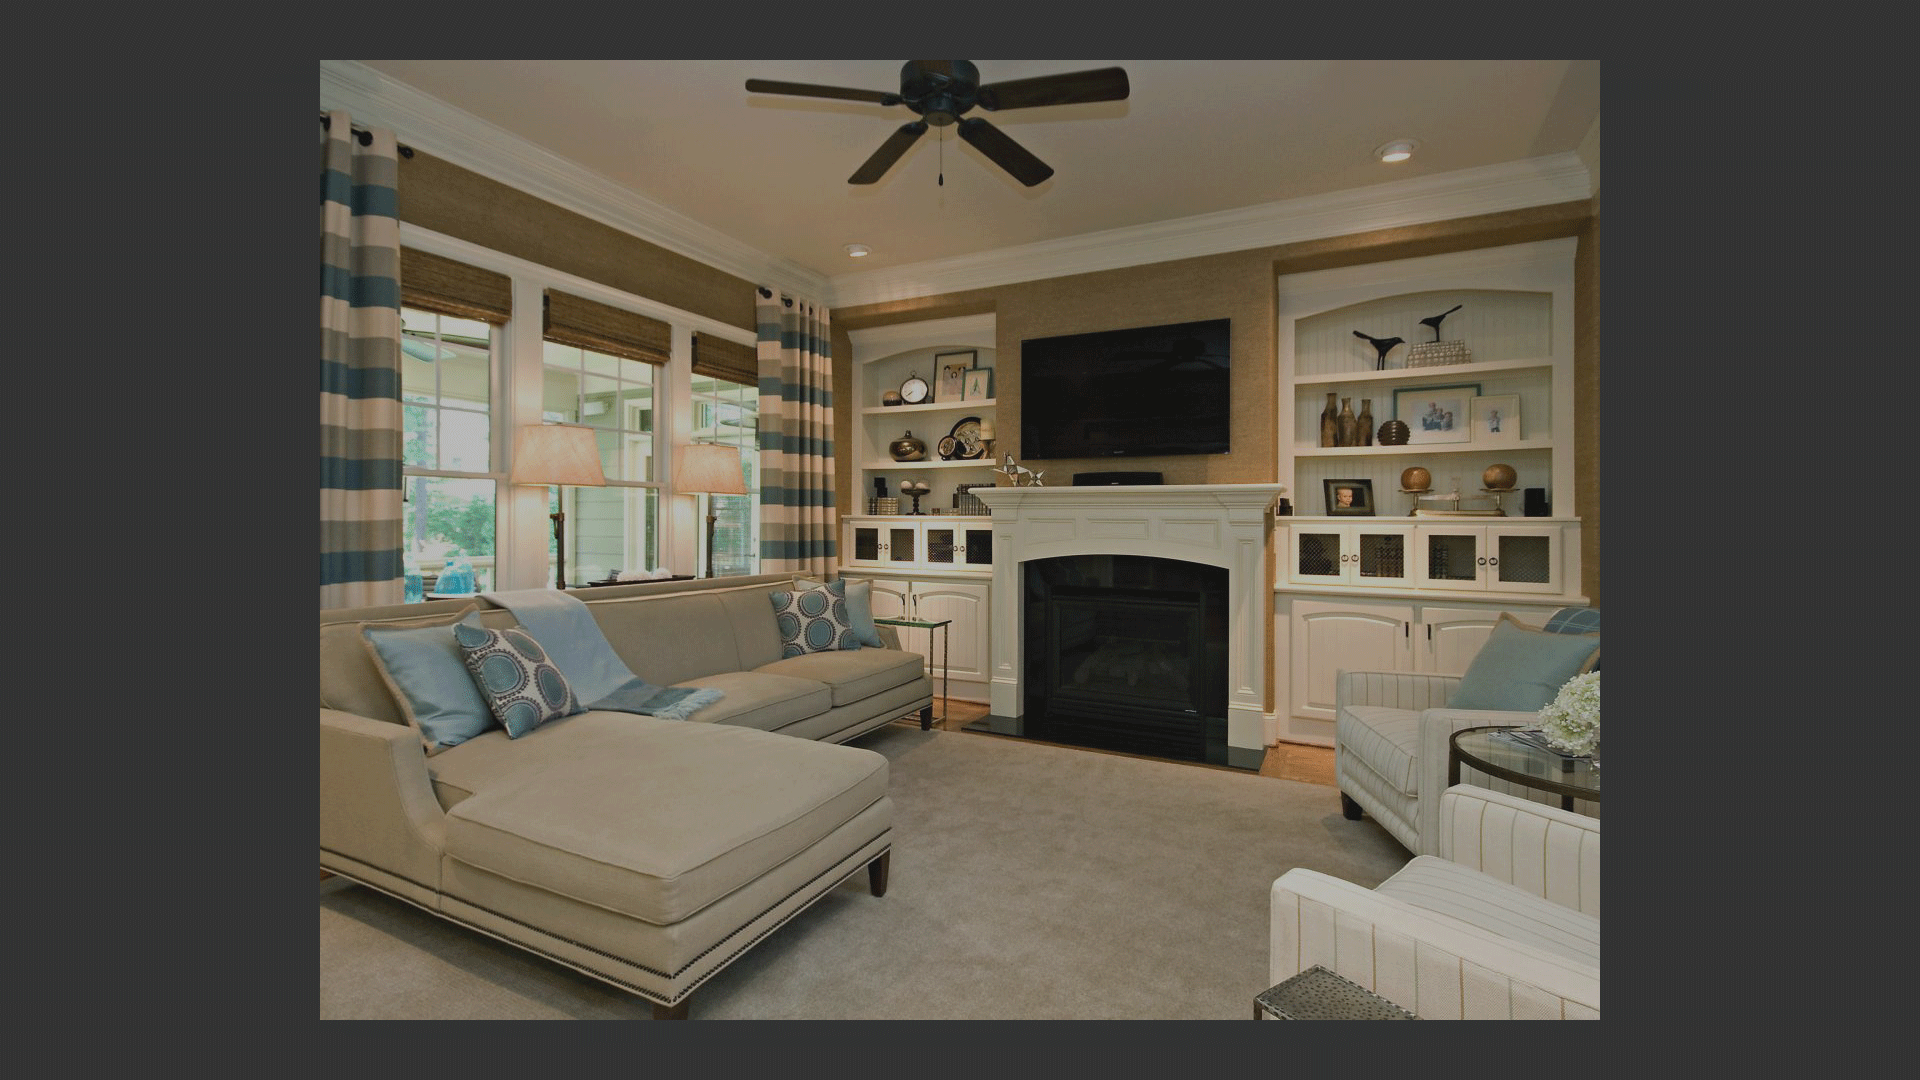
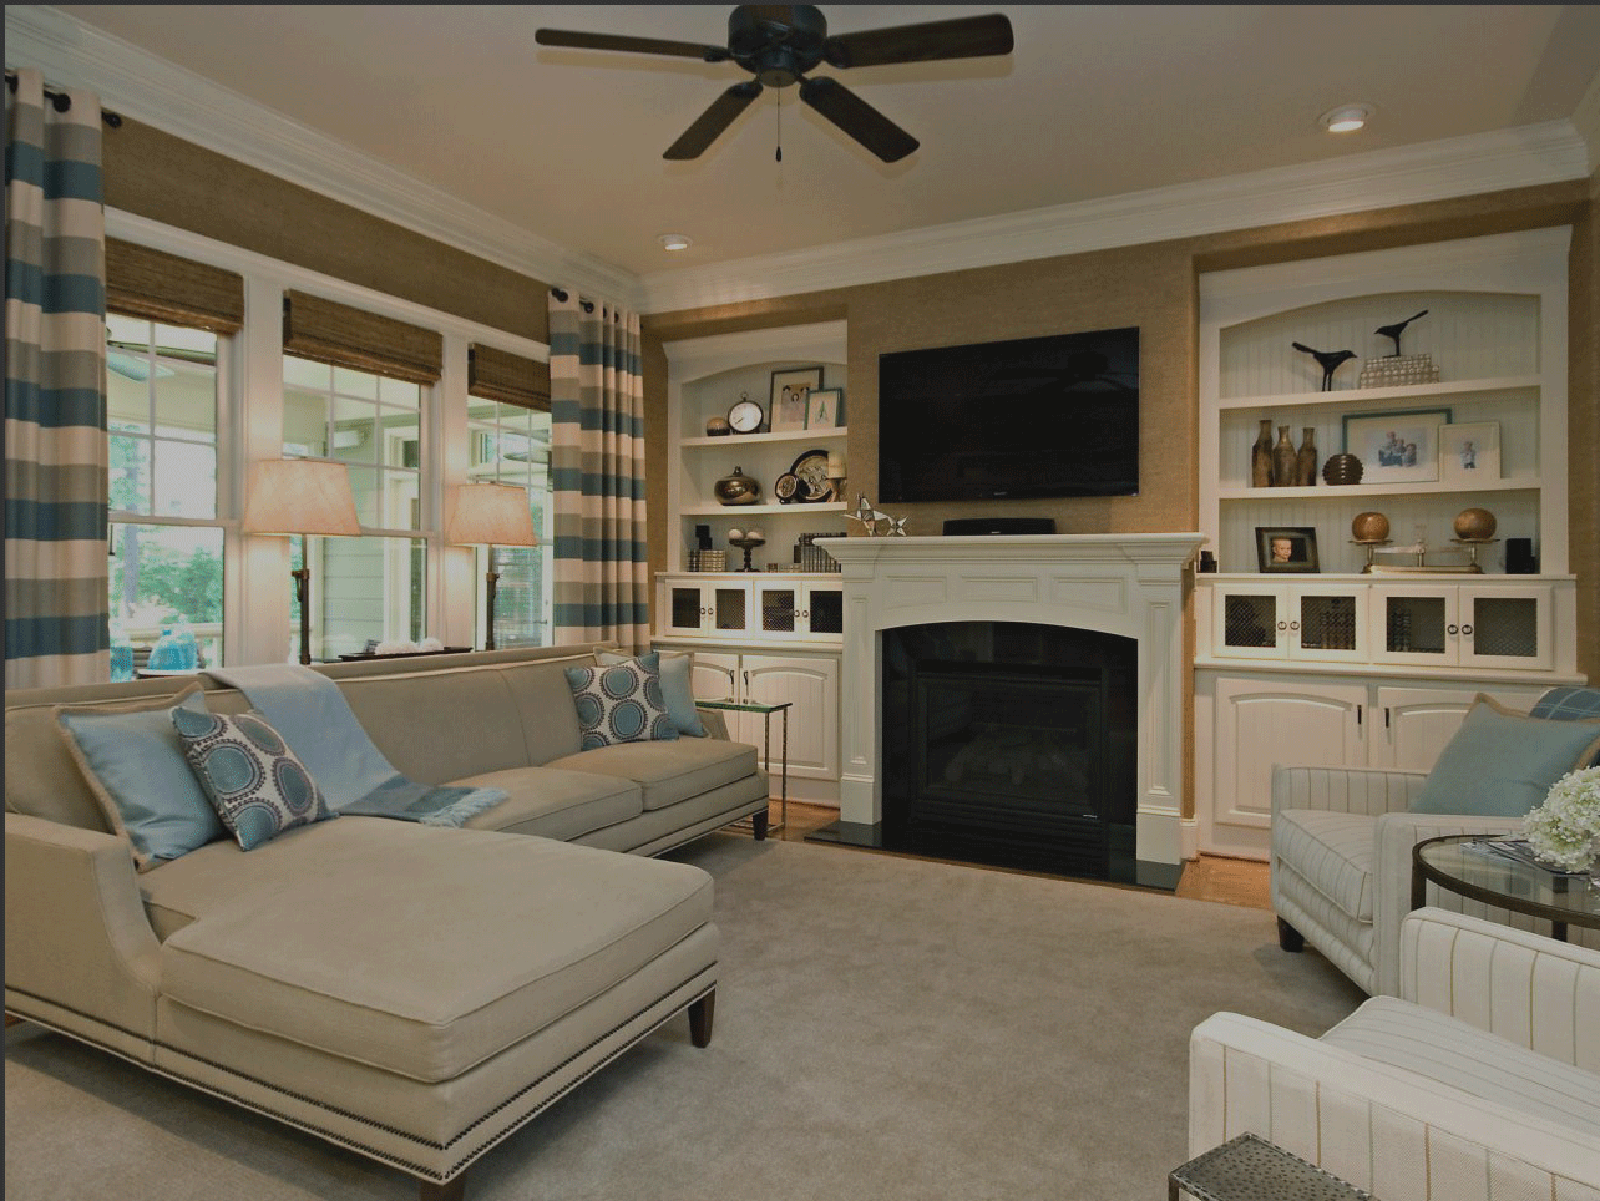
fixed touch using touchpunch from furf and style updates

diff --git a/skin-housepanel/housepanel.css b/skin-housepanel/housepanel.css
@@ -77,21 +77,15 @@ form.houseauth {
     padding-left: 0px;
     padding-right: 1px;
     text-align: left;
-	
 }
 
 #options-tab {
     padding-top: 10px;
 }
 
-/* specific tabs can be fully customized by ID as shown here */
-/* this would put the content on the right when uncommented */
-
-
 #options-tab {
     background-color: #ffffff;
     color: #000000;
-	
 }
 
 /* all panels look like this */
@@ -100,8 +94,10 @@ div.panel {
     border: 0px solid #3333cc;
     padding: 2px;
     width: 100%;
-	margin: auto;
+    margin: auto;
     position:relative;
+    background-repeat: no-repeat;
+    background-position: left;
     box-shadow: 0px 0px 41px rgba(0, 0, 0, 0.50);
     -moz-box-shadow: 0px 0px 41px rgba(0, 0, 0, 0.50);
     -webkit-box-shadow: 0px 0px 41px rgba(0, 0, 0, 0.50);
@@ -109,64 +105,41 @@ div.panel {
 }
 
 div.panel-family {
-	background-image: url('family.png');
-	background-attachment: fixed;	
-	background-repeat: no-repeat;
-    background-position: center;
+    background-image: url('family.png');
 }
 
 div.panel-kitchen, div.panel-dinette {
-	background-image: url('kitchenroom.png');
-	background-attachment: fixed;	
-	background-repeat: no-repeat;
+    background-image: url('kitchenroom.png');
 }
 
 div.panel-formal, div.panel-living {
-	background-image: url('formal.png');
-	background-attachment: fixed;	
-	background-repeat: no-repeat;
-    background-position: center;
+    background-image: url('formal.png');
 }
-
+/*
 a:hover {
     background-position: 0 -32px;
-}
+}*/
 
 
 div.panel-outside, div.panel-garage {
     background-image: url('outside.png');
-    background-attachment: fixed;	
-    background-repeat: no-repeat;
-    background-position: center;
 }
 
 div.panel-office {
     background-image: url('office.png');
-    background-attachment: fixed;	
-    background-repeat: no-repeat;
 }
 
 div.panel-bedrooms {
     background-image: url('bedroom.png');
-    background-attachment: fixed;	
-    background-repeat: no-repeat;
-    background-position: center;
 }
-
 
 /* make specific panels look however you wish */
 div.panel-music, div.panel-theater {
-  background-image: url('music.png');
-  background-attachment: fixed;	
-  background-repeat: no-repeat;
-  background-position: center;
+    background-image: url('music.png');
 }
 
 div.panel-thermostats {
   background-image: url('thermostat.png');
-  background-attachment: fixed;	
-  background-repeat: no-repeat;
-  background-position: center;
 }
 
 /* locate and style the blocks of data for history info */
@@ -352,7 +325,7 @@ div.thing {
     border-right: 0px solid #cccccc;
     border-bottom: 0px solid #ffffff; 
     border-left: 0px solid #ffffff;
-    background-color: rgba(0, 51, 204, 0.4);
+    background-color: rgba(0, 51, 204, 0.6);
     box-shadow: 2px 2px 7px black;
     color: #eeeeee;
     cursor: default;
@@ -479,7 +452,7 @@ div.switch, div.switchlevel, div.momentary, div.motion, div.lock, div.contact, d
     height: 112px;
 }
 
-div.switch, div.switchlevel, div.momentary, div.lock {
+div.switch, div.switchlevel, div.momentary, div.lock, div.mode.mode {
     cursor: pointer;
 }
 
@@ -585,7 +558,7 @@ div.switch.on, div.switchlevel.on{
 
 div.switch.off, div.switchlevel.off{
     background-image: url('bulboff.png');
-    background-color: rgba(0, 51, 204, 0.6);
+    /* background-color: rgba(0, 51, 204, 0.6); */
 }
 
 div.momentary.off, div.momentary.on{
@@ -836,11 +809,9 @@ div.b1x1, div.b1x2, div.b2x1, div.b2x2 {
     padding-left: 0px;
 }
 
-div.b2x1, div.b2x2 {
-    height: 252px;
-}
-
-div.b1x2, div.b2x2 {
+/* add special sizes for the b1x2, b2x1, and b2x2 tiles  */
+/* otherwise they are the same as the b1x1 blank tile */
+div.b1x2, div.b2x1 {
     width: 244px;
 }
 
@@ -869,6 +840,23 @@ div.clock.time {
 div.clock.tzone{
     display:none;
 }
-div.thingname.blank, div.thingname.clock {
+div.thingname.blank, div.thingname.clock, div.thingname.mode {
+    display:none;
+}
+
+div.thing.mode-thing {
+    width: 120px;
+    height: 160px;
+    cursor: move;
+}
+div.mode.themode {
+    font-size: 24pt;
+    margin-top: 10px;
+}
+div.mode.name {
+    font-size: 12pt;
+    margin-top: 50px;
+}
+div.mode.zipcode {
     display:none;
 }

diff --git a/housepanel.js b/housepanel.js
@@ -238,11 +238,11 @@ function strObject(o) {
   var out = '';
   for (var p in o) {
     out += p + ': ';
-    if (typeof o[p] === "object") {
-        out += strObject(o[p]);
-    } else {
+//    if (typeof o[p] === "object") {
+//        out += strObject(o[p]);
+//    } else {
         out += o[p] + '\n';
-    }
+//    }
   }
   return out;
 }
@@ -301,18 +301,21 @@ function refreshTile(aid, bid, thetype) {
 function setupTimers() {
     
     // force refresh when we click on a new page tab
-//    $("li.ui-tab > a").click(function() {
-//        var panel = $(this).text().toLowerCase();
-////        alert("panel = "+panel);
-//        $("#panel-"+panel+" div.thing").each(function() {
-//            var aid = $(this).attr("id").substring(2);
-//            var bid = $(this).attr("bid");
-//            var thetype = $(this).attr("type");
-//            if (thetype!=="options") {
-//                    refreshTile(aid, bid, thetype);
-//            }
-//        });
-//    });
+    $("li.ui-tab > a").click(function() {
+        var panel = $(this).text().toLowerCase();
+//        alert("panel = "+panel);
+        $("#panel-"+panel+" div.thing").each(function() {
+            var aid = $(this).attr("id").substring(2);
+            var bid = $(this).attr("bid");
+            var thetype = $(this).attr("type");
+            
+            // only do select types for speed
+            // if (thetype!=="options") {
+            if (thetype==="clock" || thetype==="switch" || thetype==="switchlevel" || thetype=="motion") {
+                    refreshTile(aid, bid, thetype);
+            }
+        });
+    });
     
     // set up a timer for each tile to update automatically
     // but only for tabs that are being shown
@@ -328,7 +331,7 @@ function setupTimers() {
         switch (thetype) {
             case "switch":
             case "switchlevel":
-                timerval = 60000;
+                timerval = 30000;
                 break;
                 
             case "motion":
@@ -346,6 +349,10 @@ function setupTimers() {
 
             case "weather":
                 timerval = 303000;
+                break;
+
+            case "mode":
+                timerval = 306000;
                 break;
 
             case "lock":
@@ -529,7 +536,6 @@ function setupPage(sensortype) {
             setTimeout(function(){classarray.myMethod();}, 1500);
         } else if (thetype==="switch" || thetype==="lock" || thetype==="switchlevel" ||
                    thetype==="thermostat" || thetype==="music") {
-//             alert('targetid= ' + targetid+' type= '+thetype+' class= ['+theclass+'] value= '+thevalue);
             $.post("housepanel.php", 
                    {useajax: "doaction", id: bid, type: thetype, value: thevalue, attr: theclass},
                    function (presult, pstatus) {
@@ -539,6 +545,7 @@ function setupPage(sensortype) {
                         }
                    }, "json"
             );
+            
         } 
                             
     });

diff --git a/jquery.ui.touch-punch.min.js b/jquery.ui.touch-punch.min.js
@@ -1,0 +1,11 @@
+/*!
+ * jQuery UI Touch Punch 0.2.3
+ *
+ * Copyright 2011–2014, Dave Furfero
+ * Dual licensed under the MIT or GPL Version 2 licenses.
+ *
+ * Depends:
+ *  jquery.ui.widget.js
+ *  jquery.ui.mouse.js
+ */
+!function(a){function f(a,b){if(!(a.originalEvent.touches.length>1)){a.preventDefault();var c=a.originalEvent.changedTouches[0],d=document.createEvent("MouseEvents");d.initMouseEvent(b,!0,!0,window,1,c.screenX,c.screenY,c.clientX,c.clientY,!1,!1,!1,!1,0,null),a.target.dispatchEvent(d)}}if(a.support.touch="ontouchend"in document,a.support.touch){var e,b=a.ui.mouse.prototype,c=b._mouseInit,d=b._mouseDestroy;b._touchStart=function(a){var b=this;!e&&b._mouseCapture(a.originalEvent.changedTouches[0])&&(e=!0,b._touchMoved=!1,f(a,"mouseover"),f(a,"mousemove"),f(a,"mousedown"))},b._touchMove=function(a){e&&(this._touchMoved=!0,f(a,"mousemove"))},b._touchEnd=function(a){e&&(f(a,"mouseup"),f(a,"mouseout"),this._touchMoved||f(a,"click"),e=!1)},b._mouseInit=function(){var b=this;b.element.bind({touchstart:a.proxy(b,"_touchStart"),touchmove:a.proxy(b,"_touchMove"),touchend:a.proxy(b,"_touchEnd")}),c.call(b)},b._mouseDestroy=function(){var b=this;b.element.unbind({touchstart:a.proxy(b,"_touchStart"),touchmove:a.proxy(b,"_touchMove"),touchend:a.proxy(b,"_touchEnd")}),d.call(b)}}}(jQuery);

diff --git a/housepanel.php b/housepanel.php
@@ -139,7 +139,7 @@ function authButton($sname, $returl) {
 function getAllThings($endpt, $access_token) {
     $thingtypes = array("switches","dimmers","momentaries","contacts",
                         "sensors", "locks", "thermostats", "musics",
-                        "weathers", "cameras", "others");
+                        "weathers", "modes", "others");
     $response = array();
     foreach ($thingtypes as $key) {
         $newitem = getResponse($endpt . "/" . $key, $access_token);
@@ -460,10 +460,16 @@ function getOptions($allthings) {
             $options["skin"] = "skin-housepanel";
         }
         
-        // confirm css exists
+        // if css doesn't exist set back to default
+        if ( !file_exists($options["skin"] . "/housepanel.css") ) {
+            $options["skin"] = "skin-housepanel";
+            $updated = true;
+        }
+        
+        // if our default also doesn't exist, fail and inform user to fix
         if ( !file_exists($options["skin"] . "/housepanel.css") ) {
             echo "<div class=\"error\">Error, Skin file = ";
-            echo $options["skin"] . "/housepanel.css  missing. Please correct and re-launch.</div>";
+            echo $options["skin"] . "/housepanel.css  missing. Please provide a valid skin file and re-launch.</div>";
             exit(1);
         }
         

diff --git a/utils.php b/utils.php
@@ -10,6 +10,9 @@ function htmlHeader($skindir) {
     $tc.= '<script src="https://code.jquery.com/jquery-1.12.4.js"></script>';
     $tc.= '<script src="https://code.jquery.com/ui/1.12.1/jquery-ui.js"></script>';
     
+    // include hack from touchpunch.furf.com to enable touch punch through for tablets
+    $tc.= '<script src="jquery.ui.touch-punch.min.js"></script>';
+    
     // load custom .css and the main script file
     if (!$skindir) {
         $skindir = "skin-housepanel";
@@ -22,7 +25,7 @@ function htmlHeader($skindir) {
                             "cool-dn","cool-up","thermomode","thermofan",
                             "musicmute","musicstatus", 
                             "music-previous","music-pause","music-play","music-stop","music-next",
-                            "level-dn","level-up", "level-val");
+                            "level-dn","level-up", "level-val","mode");
         $tc.= '$(document).ready(function(){';
         foreach ($thingtypes as $thing) {
             $tc.= '  setupPage("' . $thing . '");';
